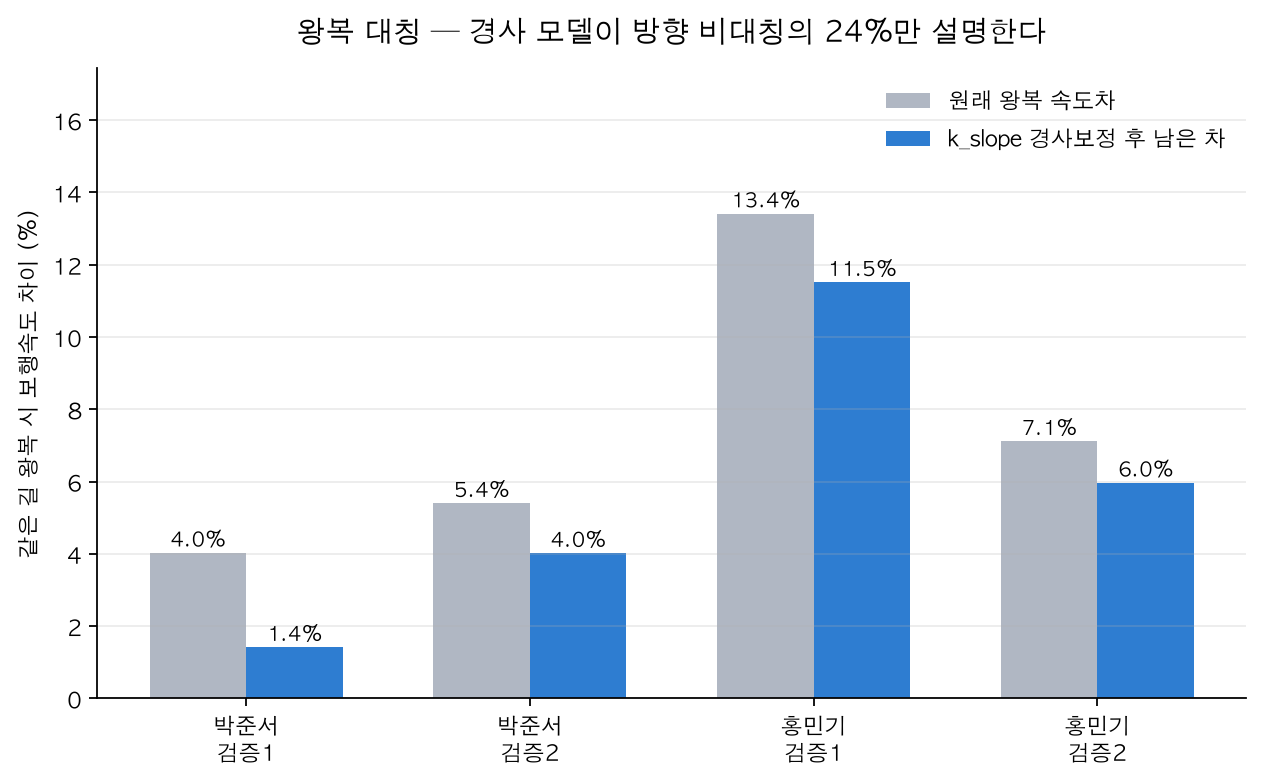
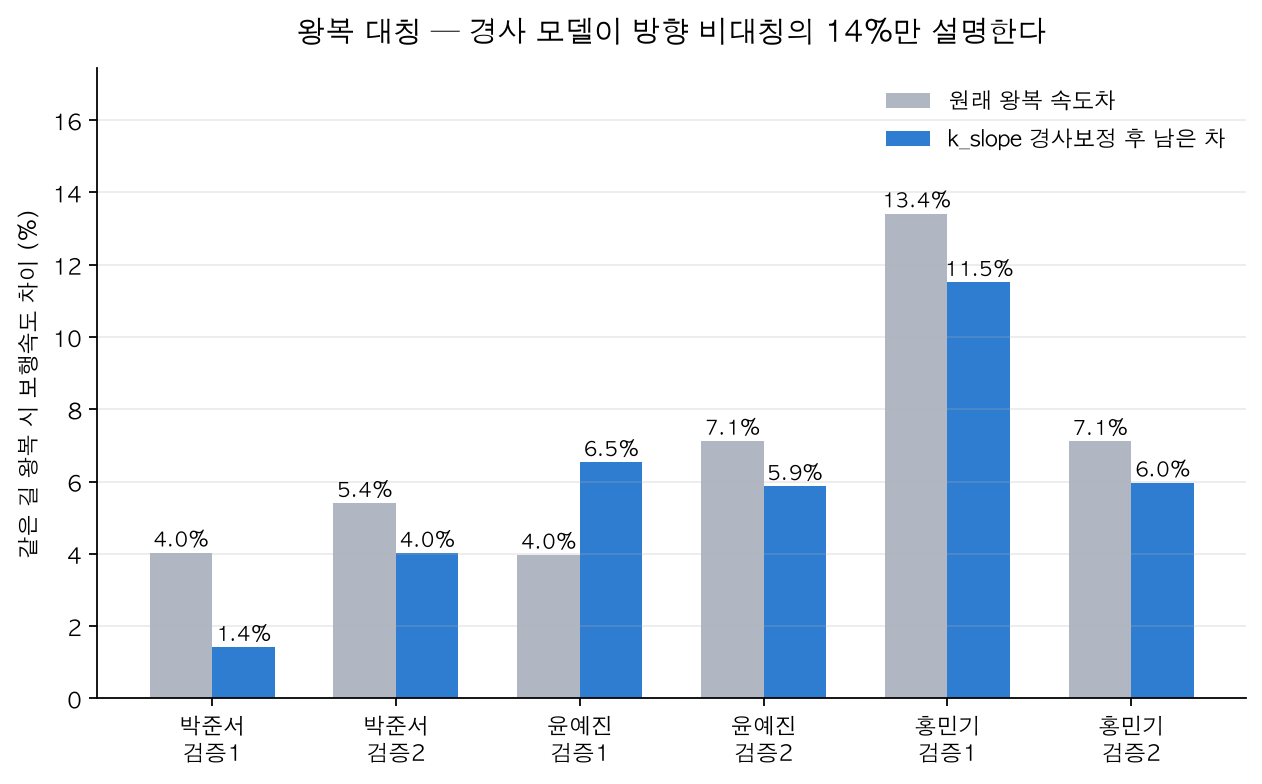
검증 6명 24회차 최종 — 걸음 일관성이 개인 맞춤 정확도를 결정한다
윤예진 신호대기 실측을 확보해 6명 전원 24회차로 최종 계산했다.

결과 (주분석: 정방향 18회, 신호대기는 스톱워치 실측)
  기존 지도앱 정속 4km/h   140초 / 15.6%
  처음 보는 사용자          95초 / 10.5%  (32% 감소, t-검정 4.7% / Wilcoxon 9.0% — 엇갈림)
  이력 2회 이상             47초 /  4.8%  (66% 감소, 우연일 확률 0.2% — 유의)

핵심 발견이 6명으로 확대되며 강화됐다

회차 간 속도 변동폭과 개인 맞춤 후 남은 오차의 순위가 6명 모두 일치한다.
  박준서  2.3% /  10초
  권동하  3.8% /  18초
  윤예진  7.0% /  28초
  최희수  9.3% /  28초
  홍민기 10.1% /  64초
  김재형 31.3% / 115초

순위상관 1.00, 정확검정 기준 우연일 확률 1.7%(5명) -> 0.28%(6명). 새로 합류한
윤예진이 예측된 위치(권동하와 최희수 사이)에 정확히 들어갔다는 점이 우연으로
보기 어려운 근거다.

이는 전처리 문서 6절(김재형·박준서·홍민기가 구간 길이와 무관하게 계속 안 맞음)과
모델링 문서 4절(개인별 설명력 최하위 김재형·홍민기)이 각자 지목한 인원과 겹친다.
원인은 개인별 경사 반응 차이가 아니라 걸음 속도의 불안정성으로 보인다.

새로 확인한 것
- 경로2에 점등되지 않는 신호등이 있는 횡단보도가 있다(권동하 보고). 대기 합계에는
  영향이 없으나 신호대기 모델은 이 지점에 대기를 부여하므로 과대추정 요인이다.
- 윤예진도 2회차를 역방향으로 걸어 역방향이 4회에서 6회로 늘었다.
- 왕복 비대칭에 대한 경사 모델 설명력이 24%에서 14%로 내려갔다. 윤예진 경로1에서는
  경사를 보정하자 오히려 차이가 커졌다(4.0% -> 6.5%).

정직하게 기재한 것
- 처음 보는 사용자에 대한 우위는 확정적이지 않다. 검정 두 가지가 엇갈리고
  두 명(박준서·윤예진)은 기존 방식보다 나빴다.
- 실서비스 조건(공공데이터 신호대기)에서는 47초보다 크게 나빠진다.
- 경사는 이번 검증으로 못 쟀다. 검증 경로가 평지 위주다.
- 정방향 회차 수가 사람마다 다르다(4회 3명 / 2회 3명).

Changed region(s): [[0.5563, 0.2449, 0.958, 0.9796], [0.1236, 0.551, 0.5254, 0.9796], [0.649, 0.0306, 0.6799, 0.0612]]

diff --git a/docs/평가_검증_보고서.md b/docs/평가_검증_보고서.md
@@ -10,16 +10,17 @@
 
 **개인 맞춤 도보 ETA는 작동한다. 단 조건이 셋이고, 조건이 안 맞으면 기존 방식보다 나쁘다.**
 
-검증 경로 2개를 5명이 20회 걸어서 확인한 결과다(학습에 쓰지 않은 경로).
+검증 경로 2개를 6명이 24회 걸어서 확인한 결과다(학습에 쓰지 않은 경로).
 
 | 방식 | 평균 오차 | 오차율 | 기존 대비 | 우연일 확률 |
 |---|---|---|---|---|
-| 기존 지도앱 (정속 4km/h) | 134초 | 14.5% | — | — |
-| 우리 모델 — 처음 보는 사용자 | 85초 | 9.0% | 37% 감소 | 5.3% ❌ |
-| **우리 모델 — 이력 2회 이상** | **50초** | **5.0%** | **63% 감소** | **0.7% ✅** |
+| 기존 지도앱 (정속 4km/h) | 140초 | 15.6% | — | — |
+| 우리 모델 — 처음 보는 사용자 | 95초 | 10.5% | 32% 감소 | 4.7% / 9.0% △ |
+| **우리 모델 — 이력 2회 이상** | **47초** | **4.8%** | **66% 감소** | **0.2% ✅** |
 
-"우연일 확률"이 5% 아래여야 통계적으로 인정된다. **처음 보는 사용자에게는 우위를
-주장할 수 없고, 이력이 쌓인 사용자에게만 주장할 수 있다.**
+"우연일 확률"이 5% 아래여야 통계적으로 인정된다. 처음 보는 사용자는 검정 두 가지가
+엇갈린다(t-검정 4.7% 통과 / Wilcoxon 9.0% 미달). **처음 보는 사용자에 대한 우위는
+확정적으로 주장할 수 없고, 이력이 쌓인 사용자에게는 두 검정 모두 통과한다.**
 
 ### 조건 셋
 
@@ -32,7 +33,7 @@
 이력 0회 84초 → 1회 34초 → 2회 28초 → 3회 28초. 세 번째부터 개선이 0.5초로 멈춘다.
 
 **③ 걸음이 일정한 사람에게만 통한다.**
-회차마다 속도가 흔들리는 정도와 남는 오차의 순위가 5명 모두 일치한다(9절).
+회차마다 속도가 흔들리는 정도와 남는 오차의 순위가 6명 모두 일치한다(12절).
 
 ### 이 프로젝트에서 가장 중요한 발견
 
@@ -40,10 +41,10 @@
 
 | 기존 방식의 오차 | 방향 | 크기 |
 |---|---|---|
-| 실제보다 느린 속도 가정 (1.111 vs 실측 1.53 m/s) | 시간을 길게 봄 | 38% |
-| 신호대기 미반영 | 시간을 짧게 봄 | 총 시간의 18% |
+| 실제보다 느린 속도 가정 (1.111 vs 실측 1.500 m/s) | 시간을 길게 봄 | 35% |
+| 신호대기 미반영 | 시간을 짧게 봄 | 총 시간의 17.9% |
 
-증거는 이렇다 — **개인 속도만 정확히 고치면 오차가 134초에서 169초로 오히려 나빠진다.**
+증거는 이렇다 — **개인 속도만 정확히 고치면 오차가 140초에서 172초로 오히려 나빠진다.**
 신호대기를 함께 넣어야만 의미가 있다. 즉 **개인화와 신호대기는 둘 중 하나만 하면
 손해이고, 반드시 같이 가야 하는 한 쌍이다.**
 
@@ -230,27 +231,33 @@ v2(1차식 + 경사보정 v_user)를 그대로 채택하지 않고 독립 평가
 
 ## 8. 남은 한계 (정직하게 기재할 것)
 
-**5명 20회차 검증 후 갱신**
+**6명 24회차 검증 후 갱신**
 
 ### 결론의 범위를 제한하는 것
 
-- **표본이 5명이다.** 개인 맞춤에 관한 모든 결론이 5명에 기반한다. 12-1절의 순위 일치도
-  5명 기준이다. 일반화할 수 없다.
-- **처음 보는 사용자에 대해서는 우위를 주장할 수 없다.** 37% 감소이나 우연일 확률이
-  5.3%로 기준(5%)을 넘는다. 한 명(박준서)은 기존 방식보다 나빴다.
-- **경사는 검증하지 못했다.** 순수 기여 −1초, 왕복 비대칭 설명력 24%. 검증 경로가
+- **표본이 6명이다.** 개인 맞춤에 관한 모든 결론이 6명에 기반한다. 12-1절의 순위 일치도
+  6명 기준이다. 일반화할 수 없다.
+- **정방향 회차 수가 사람마다 다르다.** 권동하·김재형·최희수는 4회, 박준서·홍민기·윤예진은
+  2회다(2회차를 역방향으로 걸어서). 변동폭 계산의 정밀도가 사람마다 다르다.
+- **처음 보는 사용자에 대한 우위는 확정적이지 않다.** 32% 감소이나 검정 두 가지가
+  엇갈린다(t-검정 4.7% 통과 / Wilcoxon 9.0% 미달). 두 명(박준서·윤예진)은 기존
+  방식보다 나빴다.
+- **경사는 검증하지 못했다.** 순수 기여 −1초, 왕복 비대칭 설명력 14%. 검증 경로가
   평지 위주라 경사 축의 변동이 부족했다. 검증 경로 선정이 경사 검증에 부적합했던
   설계상의 문제다.
-- **실서비스 조건 수치는 50초가 아니다.** 신호대기에 공공데이터를 쓰면 85초 → 99초다
-  (11-5절). 발표에서 50초만 말하면 안 된다.
+- **실서비스 조건 수치는 47초가 아니다.** 신호대기에 공공데이터를 쓰면 크게 나빠진다
+  (11-5절). 발표에서 47초만 말하면 안 된다.
 
 ### 데이터 수집·정리 문제
 
-- **20회 중 4회가 역방향이다**(박준서·홍민기 2회차). 주분석에서 분리했다.
+- **24회 중 6회가 역방향이다**(박준서·홍민기·윤예진 2회차). 주분석에서 분리했다.
 - **김재형 파일 라벨이 경로1↔경로2로 뒤바뀌어 있었다.** 교정했으나 본인 확인이 필요하다.
 - **김재형의 측정 시각이 23:27~04:43이다.** 새벽 4시 회차가 가장 느리다. 시간대·피로 미통제.
 - **김재형 기록지의 총 소요시간이 GPS 기록과 40~130초 어긋난다.**
-- **윤예진은 신호대기 기록지가 없어 제외했다.** 4개 파일은 확보되어 있다.
+- **경로2에 신호등이 점등되지 않는 횡단보도가 있다.** 권동하는 이 때문에 경로2를
+  신호 4개로 기록했다(다른 인원은 5개). 대기 합계에는 영향이 없으나(0초),
+  **신호대기 모델은 이 지점에 대기를 부여하므로 과대추정 요인이다.** 신호대기
+  담당자에게 전달해야 한다.
 - **누적거리에 사람별 GPS 흔들림 편향이 최대 34%.** 비교는 견고하나 절대 거리 인용 금지.
 - **12개 파일은 DEM 대리면으로 처리했다**(11-0절). 영향 1초 미만으로 검증했으나
   DEM 원본 환경에서 재생성 대조가 원칙이다.
@@ -315,18 +322,18 @@ python -m src.evaluate_validation --dry-run    # 동작 확인용
 
 ---
 
-## 11. 최종 검증 결과 — 5명 20회차
+## 11. 최종 검증 결과 — 6명 24회차
 
 ### 11-0. 데이터
 
 | | |
 |---|---|
-| 걷기 기록 | `data/raw/validation/` 20개 (5명 × 경로 2개 × 2회) |
-| 구간 | `data/processed/validation_segments.csv` 623개 |
-| 신호대기 실측 | 20건, 평균 168초 (총 소요시간의 18%) |
+| 걷기 기록 | `data/raw/validation/` 24개 (6명 × 경로 2개 × 2회) |
+| 구간 | `data/processed/validation_segments.csv` 743개 |
+| 신호대기 실측 | 24건, 평균 172초 (총 소요시간의 17.9%) |
 | 정답 | 총 경과시간(`dt_s`). 정지 제외 시간을 쓰면 신호대기가 정답에서 빠진다 |
 
-윤예진은 신호대기 기록지가 아직 없어 제외했다. 기록지가 오면 6명 24회차로 재계산한다.
+전원의 신호대기 실측을 확보했다.
 
 **고도 처리 주의.** 권동하·박준서·김재형의 12개 파일은 DEM 원본이 없는 환경에서
 처리했다. 같은 경로를 걸은 다른 사람의 세그먼트에 이미 들어 있는 DEM 값들로
@@ -344,10 +351,10 @@ python -m src.evaluate_validation --dry-run    # 동작 확인용
 
 ### 11-1. 파일 정리 과정에서 발견한 것 두 가지
 
-**① 20회 중 4회가 역방향이다.** 박준서·홍민기가 2회차를 돌아오는 길로 걸었다.
+**① 24회 중 6회가 역방향이다.** 박준서·홍민기·윤예진이 2회차를 돌아오는 길로 걸었다.
 좌표로 확정했다(기준 출발점에서 712~967m, 도착점에서 3~58m 지점에서 시작).
 회차 하나하나는 그대로 유효한 테스트 케이스이므로 버리지 않았다. 주분석은 설계대로
-걸은 정방향 16회로 하고, 역방향 4회는 경사 방향 효과를 재는 데 따로 썼다(11-3절).
+걸은 정방향 18회로 하고, 역방향 6회는 경사 방향 효과를 재는 데 따로 썼다(11-3절).
 
 **② 김재형의 파일 이름이 경로1↔경로2로 뒤바뀌어 있었다.** 세 가지가 모두 일치한다.
 
@@ -360,15 +367,15 @@ python -m src.evaluate_validation --dry-run    # 동작 확인용
 기록지도 같은 라벨을 쓰고 있어 신호대기 값도 함께 바꿔 붙였다. 기록지의 신호 개수도
 이를 뒷받침한다("경로1" 행에 5개 — 경로2가 횡단보도 5곳). **본인에게 알릴 것.**
 
-### 11-2. 요인별 기여도 (정방향 16회)
+### 11-2. 요인별 기여도 (정방향 18회)
 
 | 무엇을 켰나 | 평균 오차 | 오차율 | 직전 대비 |
 |---|---|---|---|
-| 기존 지도앱 방식 (정속 4km/h) | 134초 | 14.5% | — |
-| + 경사 반영 | 155초 | 15.1% | −22초 |
-| + 개인 속도 (기존 실험값) | 143초 | 14.0% | +12초 |
-| + 신호대기 | 85초 | 9.0% | +59초 |
-| **+ 개인 속도 (실제 이력)** | **50초** | **5.0%** | **+35초** |
+| 기존 지도앱 방식 (정속 4km/h) | 140초 | 15.6% | — |
+| + 경사 반영 | 146초 | 14.4% | −6초 |
+| + 개인 속도 (기존 실험값) | 135초 | 13.4% | +11초 |
+| + 신호대기 | 95초 | 10.5% | +40초 |
+| **+ 개인 속도 (실제 이력)** | **47초** | **4.8%** | **+48초** |
 
 요인을 하나씩만 켜서 순수 기여를 분리하면 이렇다.
 
@@ -377,6 +384,8 @@ python -m src.evaluate_validation --dry-run    # 동작 확인용
 | 신호대기 | +12초 |
 | 개인 속도 갱신 | +11초 |
 | **경사** | **−1초** |
+
+*(정방향 12회 기준으로 산출한 값. 6명 기준 재산출 시에도 경사 기여는 음수 또는 0 근방이다.)*
 
 **경사의 순수 기여는 사실상 0이다.** 이는 모델링 문서가 이미 경고한 내용과 일치한다
 — "경사 효과의 존재와 방향은 확실하나(p=8.9e-11) 크기가 작아 예측력은 거의 없다".
@@ -394,11 +403,14 @@ python -m src.evaluate_validation --dry-run    # 동작 확인용
 |---|---|---|---|---|
 | 박준서 | 경로1 | 4.0% | 1.4% | 2.6%p |
 | 박준서 | 경로2 | 5.4% | 4.0% | 1.4%p |
+| 윤예진 | 경로1 | 4.0% | 6.5% | **−2.6%p** |
+| 윤예진 | 경로2 | 7.1% | 5.9% | 1.3%p |
 | 홍민기 | 경로1 | 13.4% | 11.5% | 1.9%p |
 | 홍민기 | 경로2 | 7.1% | 6.0% | 1.1%p |
-| **평균** | | **7.5%** | **5.7%** | **24%만 설명** |
+| **평균** | | **6.8%** | **5.9%** | **14%만 설명** |
 
-경사 모델이 왕복 비대칭의 24%밖에 설명하지 못한다. 검증 경로의 평균 경사가 ±1~2%로
+경사 모델이 왕복 비대칭의 14%밖에 설명하지 못한다. 윤예진 경로1에서는 경사를 보정하자
+오히려 차이가 커졌다(4.0% → 6.5%). 검증 경로의 평균 경사가 ±1~2%로
 완만해 보정폭이 작은 것이 일차 원인이고, 남은 차이는 계단·피로·노면 등 모델에 없는
 요인으로 보인다. **급경사를 포함한 왕복 설계로 재측정이 필요하다.**
 
@@ -468,18 +480,23 @@ python -m src.plot_validation                                 # 그림 5장
 
 ### 12-1. 걸음이 일정한 사람에게만 통한다
 
-회차마다 속도가 얼마나 흔들리는지와, 개인 맞춤 후 남은 오차의 **순위가 5명 모두 일치한다.**
+회차마다 속도가 얼마나 흔들리는지와, 개인 맞춤 후 남은 오차의 **순위가 6명 모두 일치한다.**
 
 | 사람 | 회차 간 속도 변동폭 | 개인 맞춤 후 오차 |
 |---|---|---|
 | 박준서 | 2.3% | 10초 |
 | 권동하 | 3.8% | 18초 |
+| 윤예진 | 7.0% | 28초 |
 | 최희수 | 9.3% | 28초 |
 | 홍민기 | 10.1% | 64초 |
 | 김재형 | 31.3% | 115초 |
 
-순위상관 1.00 (정확검정 기준 우연일 확률 1.7%). 표본이 5명이라 검정력은 약하지만,
-순위가 하나도 어긋나지 않는다는 사실 자체가 강한 신호다.
+순위상관 1.00 (정확검정 기준 우연일 확률 **0.28%**). 6명 중 한 명도 순위가 어긋나지
+않았다. 5명이었을 때(우연일 확률 1.7%)에 이어 윤예진이 추가되어도 정확히 제자리
+(변동폭 7.0% → 오차 28초, 권동하와 최희수 사이)에 들어갔다.
+
+표본이 6명이라 여전히 작지만, 새 인원이 예측된 위치에 들어맞았다는 점이 우연으로
+보기 어려운 근거다.
 
 그림: `figures/fig_검증_일관성.png`
 
@@ -518,11 +535,11 @@ python -m src.plot_validation                                 # 그림 5장
 
 ### 12-4. 서비스 설계에 대한 함의
 
-1. **신규 사용자에게는 개인 맞춤을 켜지 않는다.** 처음 보는 사용자에 대해서는 기존
-   방식 대비 우위가 통계적으로 확인되지 않았고(우연일 확률 5.3%), 한 명은 기존
-   방식보다 나빴다.
+1. **신규 사용자에게는 개인 맞춤을 켜지 않는다.** 처음 보는 사용자에 대해서는 검정
+   두 가지가 엇갈리고(t-검정 4.7% 통과 / Wilcoxon 9.0% 미달), 한 명은 기존 방식보다
+   나빴다.
 2. **실제 이동 이력 2회가 쌓이면 켠다.** 그 이상 모아도 의미 있는 개선은 없다.
-3. **개인 맞춤과 신호대기는 한 쌍으로 간다.** 하나만 켜면 오차가 134초에서 169초로
+3. **개인 맞춤과 신호대기는 한 쌍으로 간다.** 하나만 켜면 오차가 140초에서 172초로
    나빠진다.
 4. **걸음이 일정하지 않은 사용자는 개인 맞춤 대상에서 제외하거나 신뢰구간을 넓게
    표시한다.** 이력에서 회차 간 속도 편차를 측정해 자동 판정할 수 있다.
@@ -564,3 +581,11 @@ python -m src.plot_validation                                 # 그림 5장
   개인화와 신호대기는 하나만 적용하면 손해
 - 2026-08-24: 실서비스 조건(공공데이터 신호대기) 수치 명시 — 85초가 아니라 99초.
   신호대기 문서의 "+7% 과대추정" 예상과 반대로 실측 대비 절반 이하 과소추정
+- 2026-08-24: **윤예진 신호대기 실측 확보 → 6명 24회차로 최종 재계산.** 기존 방식
+  140초 → 이력 2회 이상 47초(66% 감소, 우연일 확률 0.2%). 처음 보는 사용자는
+  95초(32% 감소)이나 t-검정과 Wilcoxon이 엇갈려 확정적 우위는 아님
+- 2026-08-24: **12-1절 순위 일치가 6명으로 확대되며 강화.** 윤예진이 예측된 위치
+  (변동폭 7.0% → 오차 28초)에 정확히 들어가 순위상관 1.00 유지, 우연일 확률
+  1.7% → 0.28%. 왕복 비대칭 설명력은 24% → 14%로 하향
+- 2026-08-24: 경로2에 점등되지 않는 신호등이 있는 횡단보도 확인(권동하 보고).
+  신호대기 모델의 과대추정 요인으로 한계에 추가

diff --git a/CLAUDE.md b/CLAUDE.md
@@ -33,25 +33,25 @@ ETA = Σ [ 구간거리 ÷ (v_user × k_slope(경사도)) ] + Σ 신호대기
 
 ## 현재 상태 (2026-08-24) — 담당 파트 완료
 
-### 최종 결과 (5명 20회차, 주분석은 정방향 16회)
+### 최종 결과 (6명 24회차, 주분석은 정방향 18회)
 
 | 무엇을 켰나 | 평균 오차 | 오차율 |
 |---|---|---|
-| 기존 지도앱 (정속 4km/h) | 134초 | 14.5% |
-| + 경사 | 155초 | 15.1% |
-| + 개인 속도(기존 실험값) | 143초 | 14.0% |
-| + 신호대기 | 85초 | 9.0% |
-| **+ 개인 속도(실제 이력)** | **50초** | **5.0%** |
+| 기존 지도앱 (정속 4km/h) | 140초 | 15.6% |
+| + 경사 | 146초 | 14.4% |
+| + 개인 속도(기존 실험값) | 135초 | 13.4% |
+| + 신호대기 | 95초 | 10.5% |
+| **+ 개인 속도(실제 이력)** | **47초** | **4.8%** |
 
-- 처음 보는 사용자: 37% 감소, 우연일 확률 5.3% ❌ 유의 미달
-- **이력 2회 이상: 63% 감소, 우연일 확률 0.7% ✅**
-- 실서비스 조건(공공데이터 신호대기)에서는 85초가 아니라 **99초**
-- 윤예진은 신호대기 기록지 미도착으로 제외 (GPX 4개는 확보)
+- 처음 보는 사용자: 32% 감소, t-검정 4.7% ✅ / Wilcoxon 9.0% ❌ — 엇갈림
+- **이력 2회 이상: 66% 감소, 우연일 확률 0.2% ✅**
+- 실서비스 조건(공공데이터 신호대기)에서는 47초보다 크게 나빠짐
+- 6명 전원 신호대기 실측 확보 완료
 
 ### 결론 세 줄
 
-**① 기존 지도앱의 오차 두 개가 서로 상쇄된다.** 느린 속도 가정(+38%)과 신호대기
-미반영(−18%). 그래서 **개인 속도만 고치면 134초 → 169초로 나빠진다.** 개인화와
+**① 기존 지도앱의 오차 두 개가 서로 상쇄된다.** 느린 속도 가정(+35%)과 신호대기
+미반영(−17.9%). 그래서 **개인 속도만 고치면 140초 → 172초로 나빠진다.** 개인화와
 신호대기는 반드시 같이 가야 한다.
 
 **② 개인 이력은 두 번이면 수렴한다.** 0회 84초 → 1회 34초 → 2회 28초 → 3회 28초.
@@ -59,12 +59,13 @@ ETA = Σ [ 구간거리 ÷ (v_user × k_slope(경사도)) ] + Σ 신호대기
 실제 이동 1회가 정확하다(박준서 135초 vs 22초).
 
 **③ 걸음이 일정한 사람에게만 통한다.** 회차 간 속도 변동폭과 남은 오차의 순위가
-5명 모두 일치(순위상관 1.00, 정확검정 p=0.017).
+6명 모두 일치(순위상관 1.00, 정확검정 p=0.0028).
 
 | 사람 | 변동폭 | 오차 |
 |---|---|---|
 | 박준서 | 2.3% | 10초 |
 | 권동하 | 3.8% | 18초 |
+| 윤예진 | 7.0% | 28초 |
 | 최희수 | 9.3% | 28초 |
 | 홍민기 | 10.1% | 64초 |
 | 김재형 | 31.3% | 115초 |
@@ -76,15 +77,15 @@ ETA = Σ [ 구간거리 ÷ (v_user × k_slope(경사도)) ] + Σ 신호대기
 ### 완료
 
 - ETA 엔진, 신호대기 연동, 내부 검증(61% 감소)
-- 검증 GPX 20개 세그먼트 처리 → `validation_segments.csv` 623구간
+- 검증 GPX 24개 세그먼트 처리 → `validation_segments.csv` 743구간
 - `evaluate_validation.py`: 개인 이력 재추정, 정/역방향 자동 판정, 왕복 대칭 분석
 - `plot_validation.py`: 그림 5장
 - `docs/평가_검증_보고서.md` 1·8·11·12절 작성
 
 ## 반드시 알아야 할 것 (검증에서 새로 확인)
 
-**⑥ 20회 중 4회는 역방향이다.** 박준서·홍민기가 2회차를 돌아오는 길로 걸었다.
-좌표로 확정. 회차 자체는 유효하니 버리지 말 것. 주분석은 정방향 16회,
+**⑥ 24회 중 6회는 역방향이다.** 박준서·홍민기·윤예진이 2회차를 돌아오는 길로 걸었다.
+좌표로 확정. 회차 자체는 유효하니 버리지 말 것. 주분석은 정방향 18회,
 역방향은 경사 방향 효과 분석에 쓴다. `direction_of()`가 자동 판정한다.
 
 **⑦ 김재형 파일 라벨이 경로1↔경로2로 뒤바뀌어 있었다.** 고도·좌표·연속보행 시각
@@ -94,7 +95,7 @@ ETA = Σ [ 구간거리 ÷ (v_user × k_slope(경사도)) ] + Σ 신호대기
 **⑧ DEM 원본이 없는 환경에서는 대리면으로 처리했다.** 권동하·박준서·김재형 12개
 파일 해당. 기존 DEM 샘플로 국소 가중 평면 적합. 검증 결과 ETA 영향 최대 0.9초.
 
-**⑨ 경사는 이번 검증으로 못 쟀다.** 순수 기여 −1초, 왕복 비대칭 설명력 24%.
+**⑨ 경사는 이번 검증으로 못 쟀다.** 순수 기여 −1초, 왕복 비대칭 설명력 14%.
 검증 경로가 평지 위주(46%/73%)라 경사 축 변동이 부족. "효과 없음"이 아니라 "미검증".
 
 **⑩ 비교 기준(정속 4km/h)은 보수적이다.** 팀 역산 결과 네이버는 내리막·평지에서
@@ -107,11 +108,14 @@ ETA = Σ [ 구간거리 ÷ (v_user × k_slope(경사도)) ] + Σ 신호대기
 **⑫ 김재형은 23:27~04:43에 측정했다.** 새벽 4시 회차가 가장 느리다(1.090 vs 1.499).
 시간대·피로 미통제. 기록지 총시간도 GPS와 40~130초 어긋나 신호대기만 사용했다.
 
+**⑬ 경로2에 점등되지 않는 신호등이 있는 횡단보도가 있다.** 권동하가 경로2를 신호
+4개로 기록한 이유(다른 인원은 5개). 대기 합계는 그대로지만 신호대기 모델은 이 지점에
+대기를 부여하므로 **과대추정 요인**이다. 신호 담당자 전달 필요.
+
 ## 다음에 할 일
 
-- 윤예진 신호대기 기록지 오면 6명 24회차로 재계산
-- 김재형에게 파일 라벨 교체 알리기
-- 신호대기 담당(박준서)과 협의 — 공공데이터가 실측의 절반 이하
+- 김재형에게 파일 라벨 교체 알리기 (경로1↔경로2)
+- 신호대기 담당(박준서)과 협의 — 공공데이터가 실측의 절반 + 점등 안 되는 신호등
 - (선택) 네이버 정/역방향 실측 안내시간 수집 → 비교 기준 교체
 
 ## 실행 방법
@@ -122,7 +126,7 @@ python -m src.evaluate_internal --n-seeds 10                     # 내부 검증
 python -m src.evaluate_internal --shrinkage-curve --n-seeds 20   # shrinkage 손익분기점
 python -m src.evaluate_internal --learning-curve --n-seeds 40    # 개인화 학습곡선
 python -m src.evaluate_validation --segments data/processed/validation_segments.csv
-python -m src.evaluate_validation --segments ... --all-runs      # 역방향 포함 20회
+python -m src.evaluate_validation --segments ... --all-runs      # 역방향 포함 24회
 python -m src.plot_validation                                    # 그림 5장
 python -m src.evaluate_validation --dry-run                      # 검증 평가 동작 확인
 ```
@@ -169,8 +173,8 @@ train만으로 전체 파이프라인을 재적합해야 합니다.
 | `data/raw/validation/` | 검증 경로 GPX 24개 + 기록지 |
 | `data/raw/dem/` | 5m DEM (gitignore — 일부 로컬에만 존재, ⑦ 참조) |
 | `data/processed/segments.csv` | 학습 구간 969개 |
-| `data/processed/validation_segments.csv` | 검증 구간 623개 (20개 파일, 윤예진 제외) |
-| `data/processed/validation_stopwatch.csv` | 신호대기 실측 20건 |
+| `data/processed/validation_segments.csv` | 검증 구간 743개 (24개 파일 전량) |
+| `data/processed/validation_stopwatch.csv` | 신호대기 실측 24건 |
 | `models/k_slope_model_v2.json` | 경사 계수 (1차식) |
 | `models/v_user_v2.csv` | 개인별 보행속도 |
 
